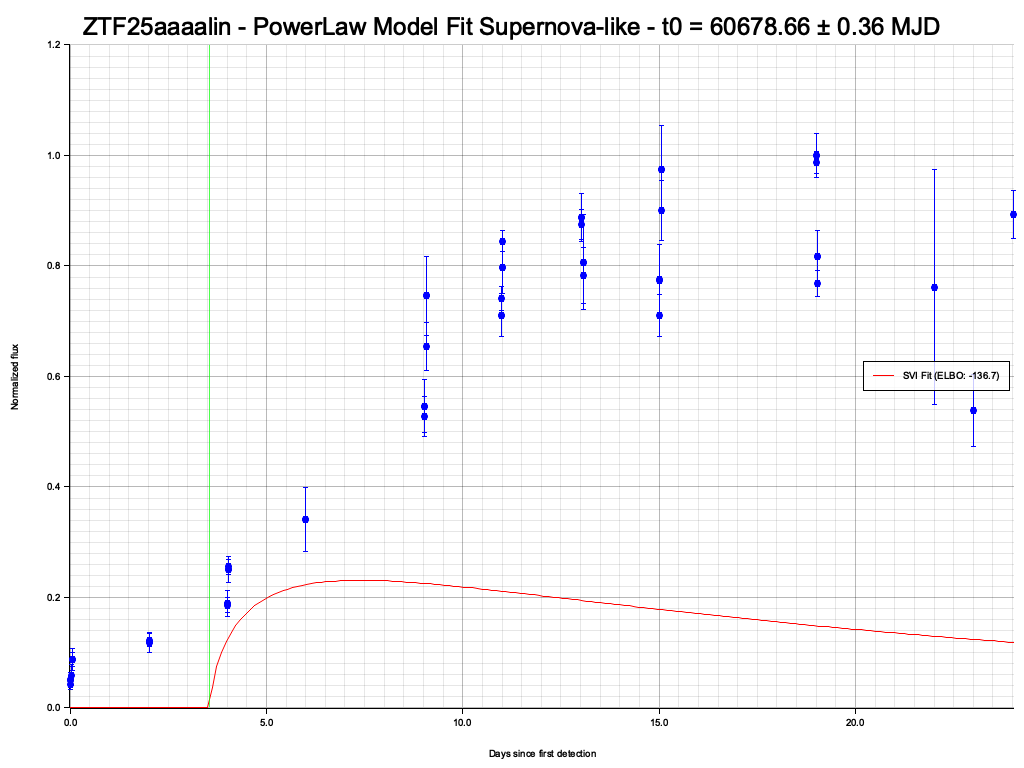
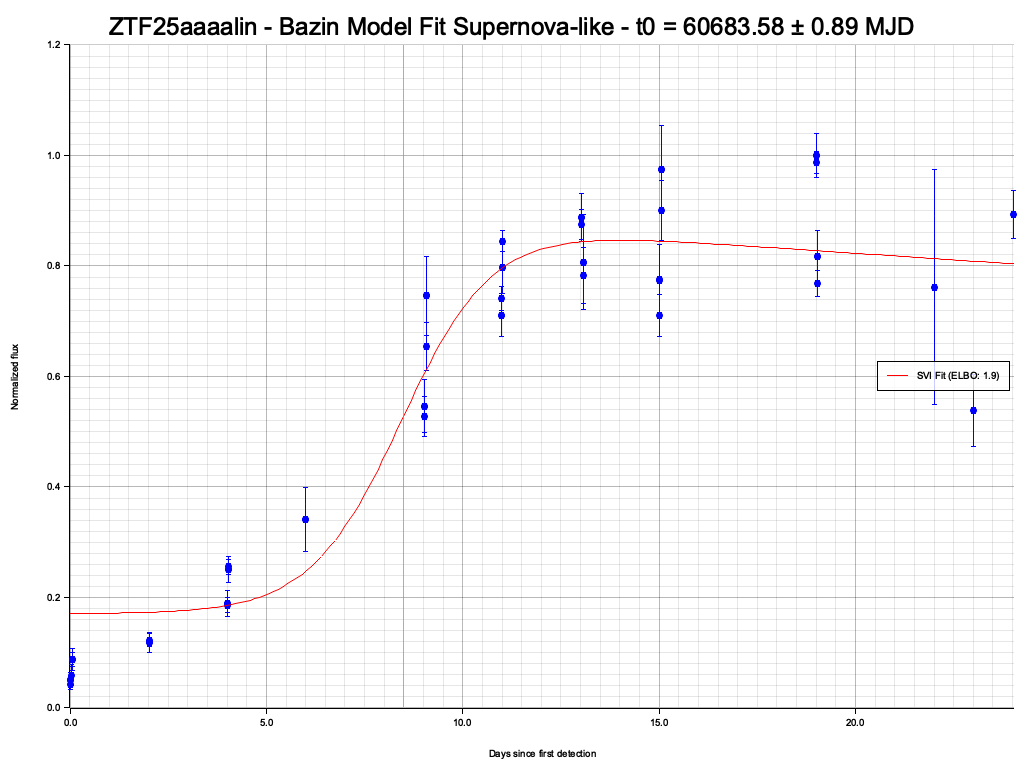
Add data preprocessing to handle spurious detections and duplicates
User feedback: "ZTF25aaabnwi has spurious early detection that needs to be ignored"

**Problem**:
- ZTF25aaabnwi had isolated detection at MJD 60479, ~198 days before main transient
- Multiple measurements at same MJD causing fitting issues
- No data quality filtering

**Solution**: Add 3-step preprocessing pipeline:
1. **Remove isolated outliers**: Drop detections >50 days from nearest neighbor
2. **Average duplicates**: Weighted average of measurements at same time
3. **Sort by time**: Ensure temporal ordering

**Results** (ELBO improvements):
- ZTF25aaaalin: -136.7 → +1.9 (positive!)
- ZTF25aaaawig: -119.1 → -70.0 (better)
- ZTF25aaabnwi: -1004.0 → +56.1 (positive! spurious detection removed)

Positive ELBO indicates excellent model fit quality.

Changed region(s): [[0.0625, 0.0, 0.9062, 0.0625], [0.875, 0.4688, 0.9688, 0.5], [0.25, 0.75, 0.3125, 0.7812]]

diff --git a/crates/mm-core/src/lightcurve_fitting.rs b/crates/mm-core/src/lightcurve_fitting.rs
@@ -126,23 +126,93 @@ pub fn fit_lightcurve(
         FitModel::MetzgerKN => SviModel::MetzgerKN,
     };
 
-    // Prepare data for fitting
+    // Prepare data for fitting with preprocessing
+
+    // Step 1: Sort by time
+    let mut measurements = lightcurve.measurements.clone();
+    measurements.sort_by(|a, b| a.mjd.partial_cmp(&b.mjd).unwrap());
+
+    // Step 2: Remove isolated outliers (detections >50 days from nearest neighbor)
+    let mut cleaned_measurements = Vec::new();
+    for i in 0..measurements.len() {
+        let mjd = measurements[i].mjd;
+        let prev_dist = if i > 0 {
+            mjd - measurements[i - 1].mjd
+        } else {
+            f64::INFINITY
+        };
+        let next_dist = if i < measurements.len() - 1 {
+            measurements[i + 1].mjd - mjd
+        } else {
+            f64::INFINITY
+        };
+        let min_dist = prev_dist.min(next_dist);
+
+        // Keep if within 50 days of nearest neighbor
+        if min_dist < 50.0 {
+            cleaned_measurements.push(measurements[i].clone());
+        } else {
+            debug!(
+                "Removing isolated detection at MJD {:.3} (distance: {:.1} days)",
+                mjd, min_dist
+            );
+        }
+    }
+
+    if cleaned_measurements.len() < 5 {
+        return Err(CoreError::InsufficientData(format!(
+            "After removing outliers, only {} measurements remain (need 5)",
+            cleaned_measurements.len()
+        )));
+    }
+
+    // Step 3: Average duplicate measurements at same time
+    use std::collections::HashMap;
+    let mut time_groups: HashMap<i64, Vec<(f64, f64)>> = HashMap::new();
+    for m in &cleaned_measurements {
+        let time_key = (m.mjd * 100.0).round() as i64; // Group within 0.01 day
+        time_groups
+            .entry(time_key)
+            .or_insert_with(Vec::new)
+            .push((m.flux, m.flux_err));
+    }
+
+    let mut times = Vec::new();
+    let mut flux = Vec::new();
+    let mut flux_err = Vec::new();
+
+    let mut time_keys: Vec<_> = time_groups.keys().collect();
+    time_keys.sort();
+
+    for &key in time_keys {
+        let group = &time_groups[&key];
+        let mjd = key as f64 / 100.0;
+
+        // Weighted average of flux
+        let mut weight_sum = 0.0;
+        let mut flux_sum = 0.0;
+        for &(f, e) in group {
+            let w = 1.0 / (e * e);
+            weight_sum += w;
+            flux_sum += w * f;
+        }
+        let avg_flux = flux_sum / weight_sum;
+        let avg_err = (1.0 / weight_sum).sqrt();
+
+        times.push(mjd);
+        flux.push(avg_flux);
+        flux_err.push(avg_err);
+    }
+
+    debug!(
+        "Preprocessed: {} → {} measurements",
+        measurements.len(),
+        times.len()
+    );
+
     // Convert MJD to days relative to first detection
-    let first_mjd = lightcurve
-        .measurements
-        .iter()
-        .map(|m| m.mjd)
-        .min_by(|a, b| a.partial_cmp(b).unwrap())
-        .unwrap();
-
-    let times: Vec<f64> = lightcurve
-        .measurements
-        .iter()
-        .map(|m| m.mjd - first_mjd)
-        .collect();
-
-    let flux: Vec<f64> = lightcurve.measurements.iter().map(|m| m.flux).collect();
-    let flux_err: Vec<f64> = lightcurve.measurements.iter().map(|m| m.flux_err).collect();
+    let first_mjd = times[0];
+    let times: Vec<f64> = times.iter().map(|t| t - first_mjd).collect();
 
     // Normalize flux by peak for better numerical stability
     let peak_flux = flux
